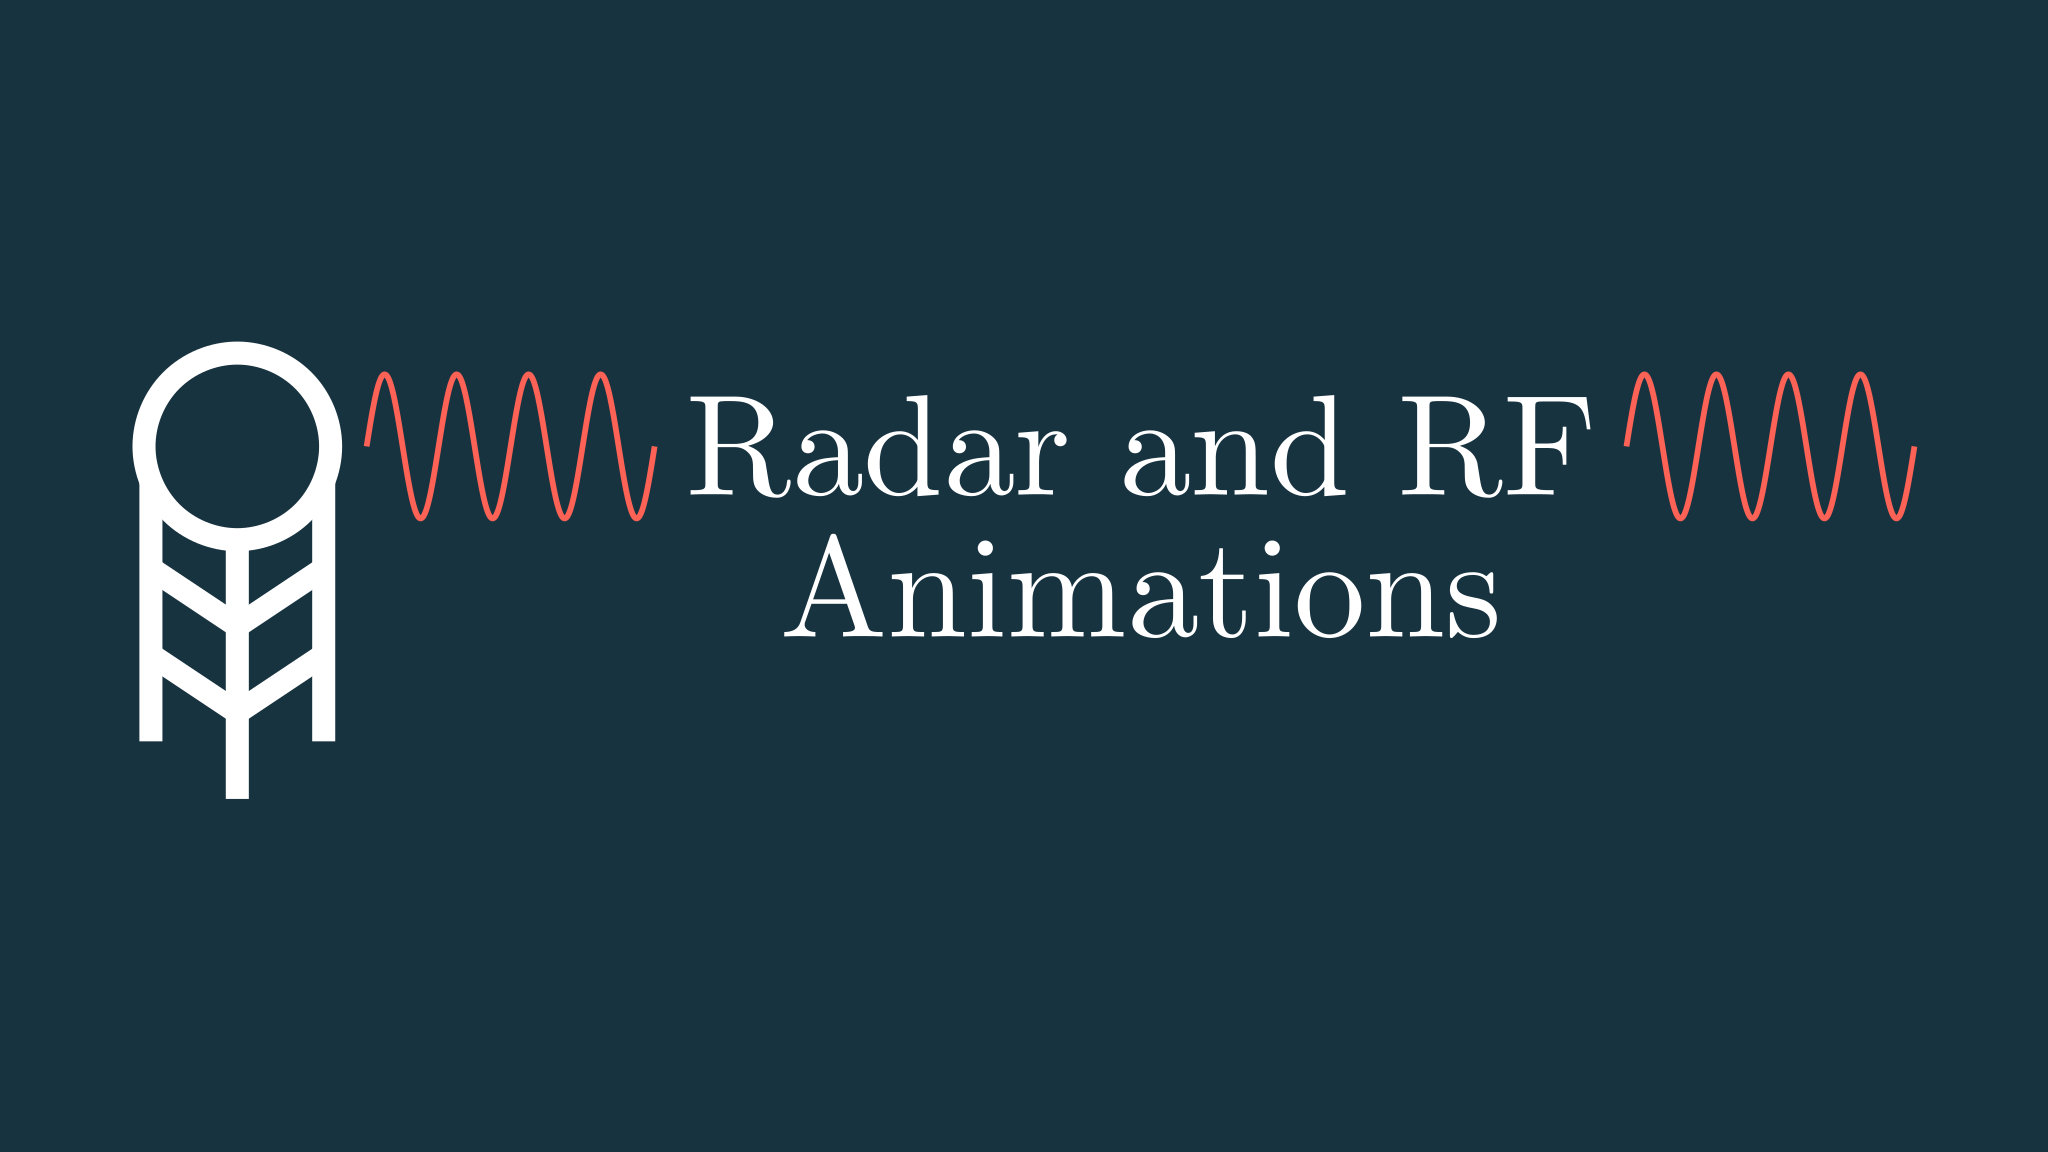
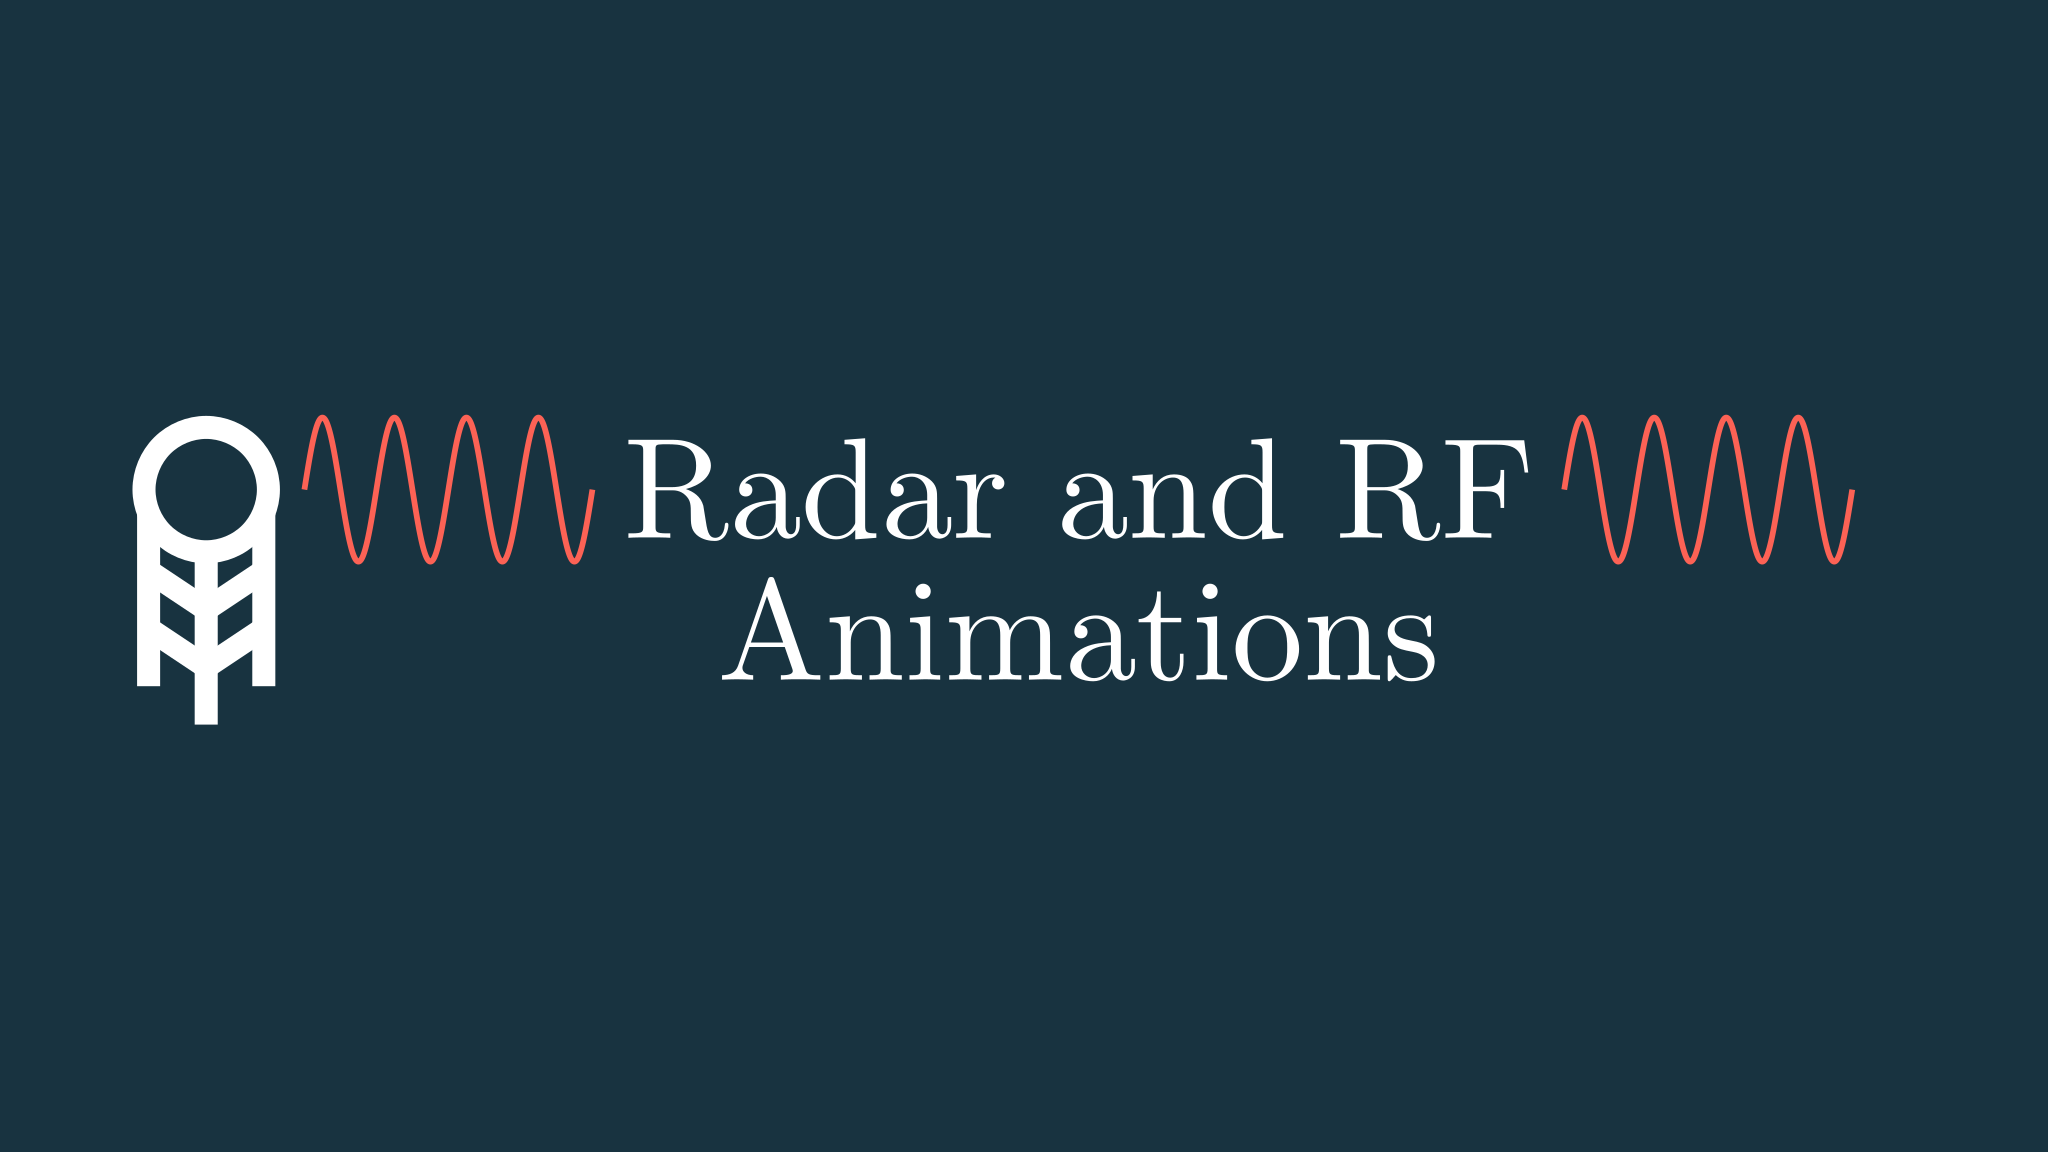
Fix for multiple devices

Changed region(s): [[0.0625, 0.2812, 0.9375, 0.6875]]

diff --git a/channel/banner.py b/channel/banner.py
@@ -17,7 +17,7 @@ config.background_color = BACKGROUND_COLOR
 class Banner(Scene):
     def construct(self):
         radar = WeatherRadarTower()
-        radar.vgroup.scale(0.6).to_edge(LEFT, buff=LARGE_BUFF)
+        radar.vgroup.scale(0.4).to_edge(LEFT, buff=LARGE_BUFF)
 
         A = 0.5
         f = 2
